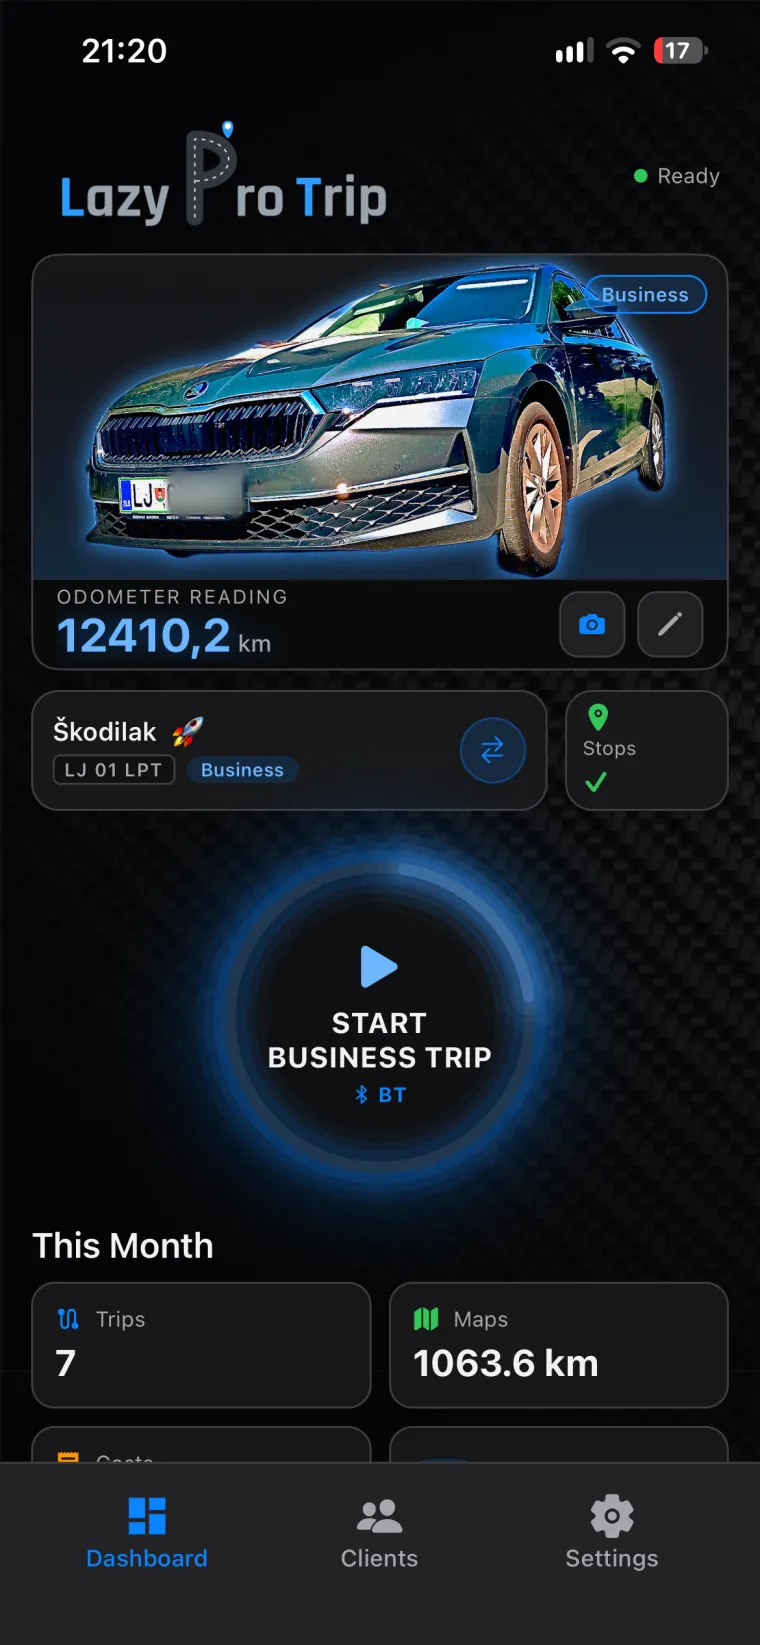
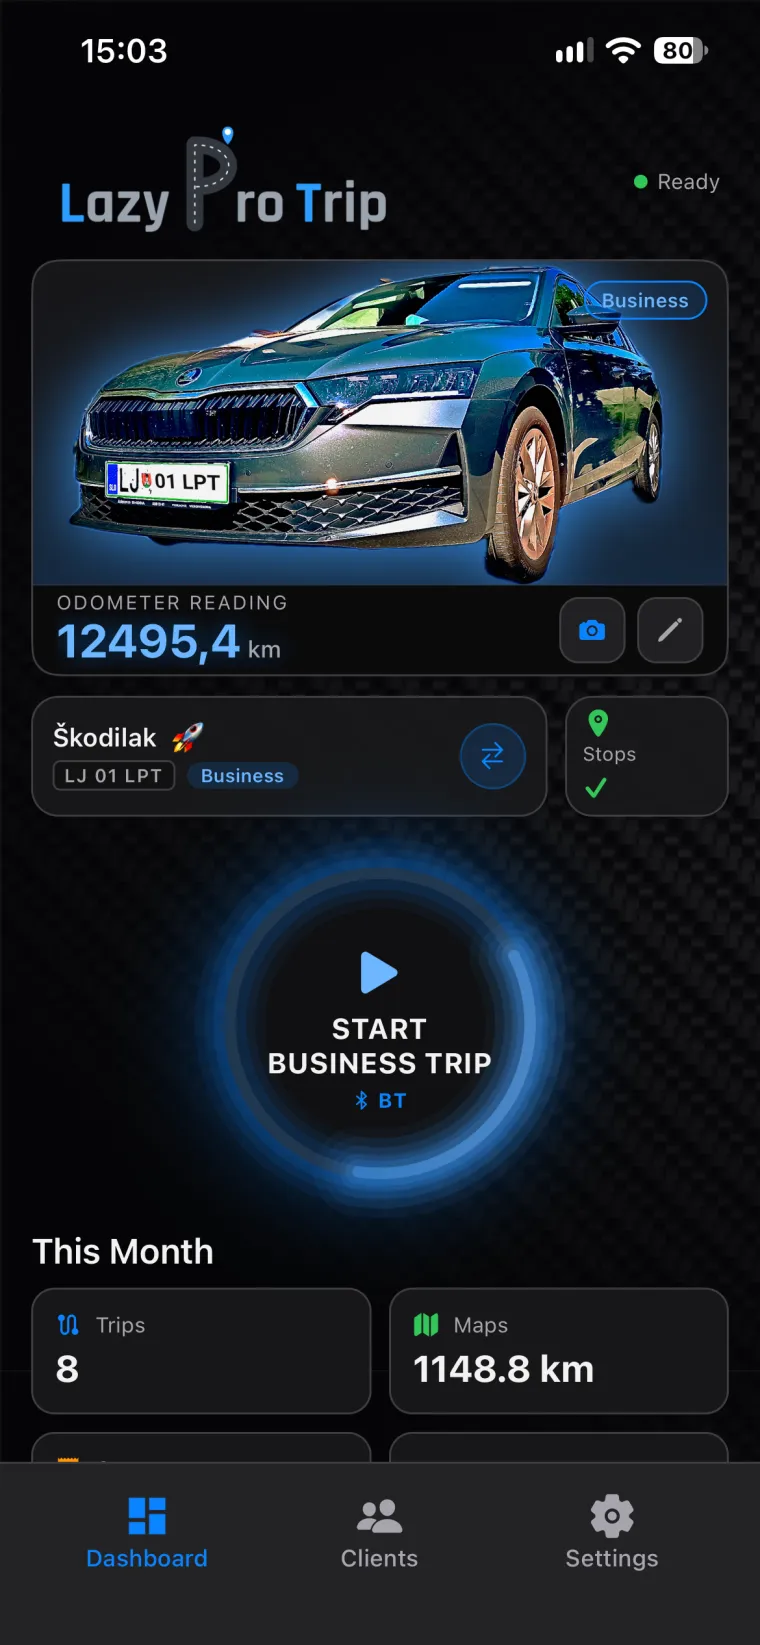
Naslovna slika EN/SL: nadzorna plosca s prekrivno tablico LJ 01 LPT

diff --git a/README.md b/README.md
@@ -137,7 +137,7 @@ v avtu so fotografije). Pretvorjeni s `cwebp -q 80` (`brew install webp`; `sips`
 
 | posnetek | vir | kaj |
 | --- | --- | --- |
-| `61` EN, `62` SL | `IMG_0432`, `0433` | naslovna slika: nadzorna plošča, ozadje carbon |
+| `61` EN, `62` SL | `IMG_0468`, `0465` (mapa `Screen shots UI 3 lang and 2 cars`) | naslovna slika: nadzorna plošča, ozadje carbon, prekrivna tablica `LJ 01 LPT` |
 | `63` EN, `64` SL, `65` DE | `IMG_0397`, `0398`, `0394` | widget na iPhonu z gumbom REFRESH / OSVEŽI / NEU LADEN (izrez) |
 | `66` EN (tudi DE), `67` SL | `IMG_0389`, `0400` | živa aktivnost na zaklenjenem zaslonu |
 | `68` EN, `69` SL, `70` DE | `IMG_0385`, `0401`, `0396` | živa aktivnost v CarPlay |
@@ -146,7 +146,7 @@ v avtu so fotografije). Pretvorjeni s `cwebp -q 80` (`brew install webp`; `sips`
 
 Tablica na fotografiji avta je v aplikaciji že zakrita (vidi se le `LJ`). **Zavrnjen:**
 `IMG_0384` — obvestilo o postanku kaže pravo ime stranke. Nemška nadzorna plošča na iPhonu
-(`IMG_0428`, `0429`) lomi gumb sredi besede (»GESCHÄFTSRE / ISE«), zato DE naslovna slika
+(`IMG_0428`, `0429`, `0469`, `0470`) lomi gumb sredi besede (»GESCHÄFTSRE / ISE«), zato DE naslovna slika
 ostaja `30-de-aktivna-pot`.
 
 **Zavrnjeni posnetki** — vsebujejo prava imena podjetij in zaseben naslov, ki
